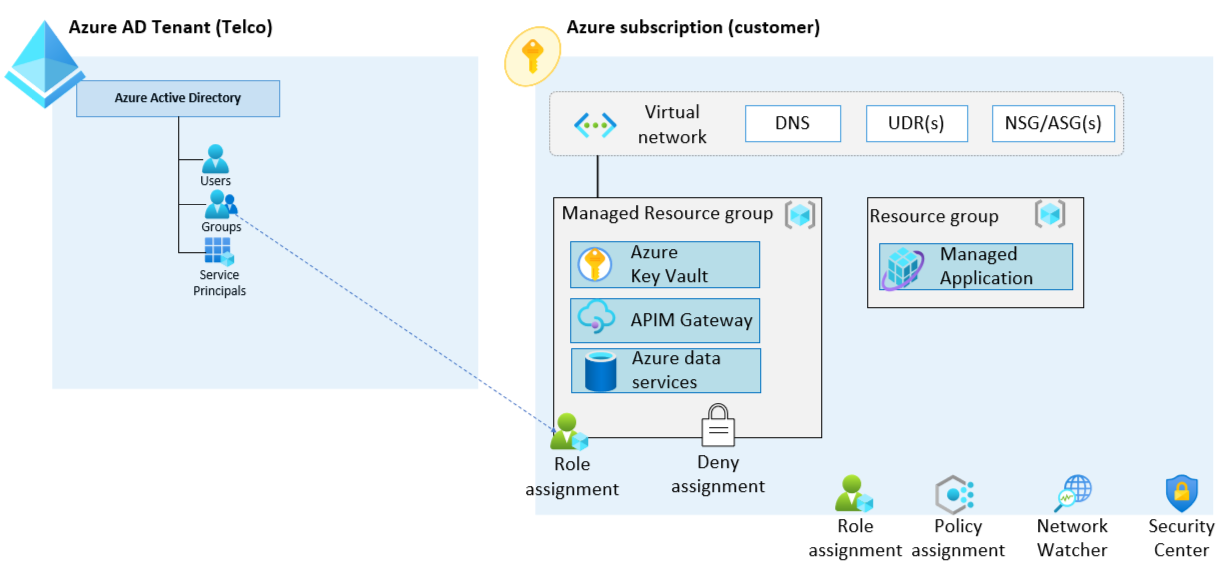
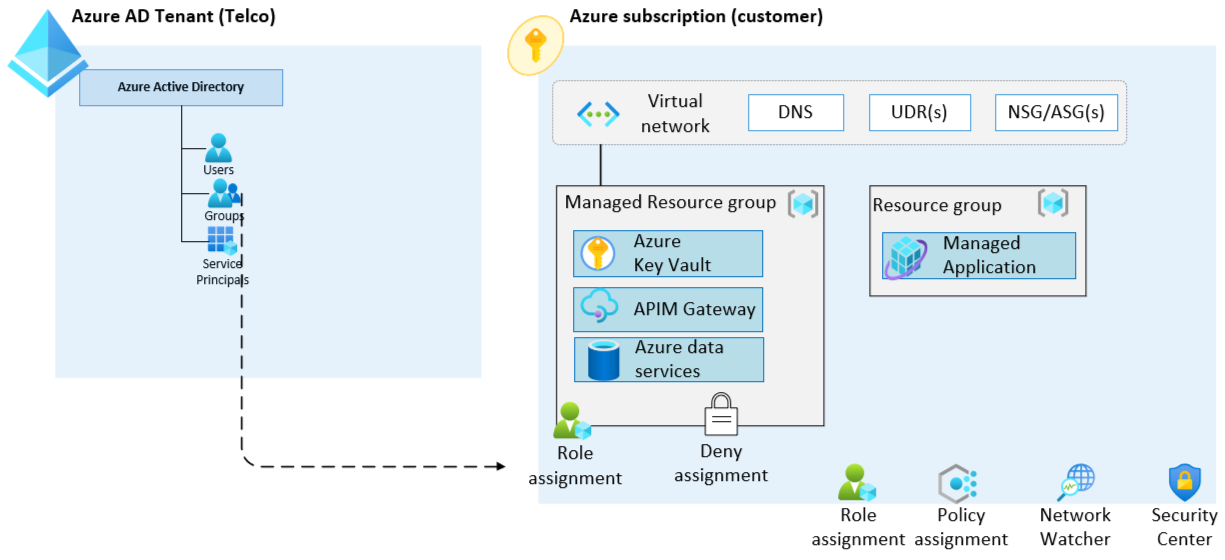
b2b update

Changed region(s): [[0.0, 0.0, 0.9927, 1.0], [0.3722, 0.6375, 0.4033, 0.6679]]

diff --git a/telco/solutions/mgmtOptions/readme.md b/telco/solutions/mgmtOptions/readme.md
@@ -1,8 +1,12 @@
 # Telco Services
 
-Telcos who are running and hosting their Telco industry solutions on the Azure platform are commonly also managing and servicing other customers, whether it is in their own tenant, or directly in the customer's tenants.
+Telcos who are running and hosting their Telco industry solutions on the Azure platform are commonly also managing and servicing other customers, whether it is in their own tenant, or in the customer's tenants.
 
 This article enumerates the different methods a Telco on Azure can use in order to provide managed services or/and managed solutions to their customers, directly in the customer environments.
+
+* [Azure Active Directory B2B](#azure-active-directory-b2b)
+* [Azure Lighthouse](#azure-lighthouse)
+* [Azure Managed Application](#azure-managed-application)
 
 The following table explains the available capabilities, their pros and cons in order to meet the above. Note that all of these capabilities can also be combined and one does not exclude the other.
 
@@ -12,9 +16,34 @@ The following table explains the available capabilities, their pros and cons in 
 | Azure Lighthouse | Enables a cross-tenant RBAC assignment so that service providers can manage the customer scopes that are delegated (subscription or resource groups) directly from within their tenant using a single token.  |Optimized for service providers to perform at-scale operations across multiple Azure tenants. Allows service providers to host and secure their intellectual properties in their own subscriptions. Interoperability across tenants from an Azure control plane perspective. Customer is in charge of the access scope given. | Owner RBAC is not supported, so several high privileged operations cannot be executed by the service provider. Limited to Azure ARM only (no Azure AD, Office 365, or Power Platform manageability). Co-admin scenario by design for the customer and the service provider, which can make it hard to have clear separation of duties.
 | Azure Managed Application | Enables service providers and ISV's to publish their solutions into Azure marketplace offerings, where customer deploys into their subscription and the actual Azure resources are projected back to the service provider tenant (cross tenant RBAC assignment) for them to operate on-behalf-of the customers. | Optimized for ISV's/service providers to perform at-scale operations across multiple Azure tenants. Allow ISV's/service providers to host and secure their intellectual properties in their own subscriptions. Interoperability across tenants from an Azure control plane perspective. Service provider can determine the RBAC they need on the managed resource group themselves. Clear separation of duties as the managed resource group in the customer subscription is locked, preventing the customer to potentially cause service disruption. | Permission for ISV's/services are limited to the managed resourcre group only |
 
+## Azure Active Directory B2B
+
+Azure Active Directory (Azure AD) business-to-business (B2B) collaboration is a feature within External Identities that lets you invite guest users to collaborate with your organization. With B2B collaboration, you can securely share your company's applications and services with guest users from any other organization, while maintaining control over your own corporate data.
+
+The diagram below shows that users originating from the Telco Azure Active Directory are invited and projected into the customer's Azure Active Directory. Once the users are added to the customer directory, they can be assigned any Azure AD, Azure, Power Platform, or Microsoft365 role assignment.
+
+![b2b](./images/b2b.png)
+
+### Design considerations
+
+* Only indivdual users can be invited into an external Azure AD tenant.
+* Developers can use Azure AD B2B APIs to customize the invitation process or write applications like self-service sign-up portals.
+* Guests are using their own identities and credentials, and are managing their own accounts and passwords.
+* Authorization policies can be used to protect your corporate content, such as Conditional Access policies and multi-factor authentication.
+* Administration of guest users can be delegated to application owners.
+* Application owners who need to grant access to Azure must have *Microsoft.Authorization/roleAssignments/write* permission, which is included in the *Owner* and *User Access Administrator* built-in roles.
+* If the guest accounts are subject to multi-factor authentication within their Azure Active Directory, and this is also enabled in the customer's Azure Active Directory, the guest users might have to perform the authentication once in their home organization, and then in the customer organization.
+
+### Design recommendations
+
+* Use Conditional Access policies for the guest users as required, depending on the permission and scope they will be granted access to.
+* Delegate user management to application teams in order to scale and provide the required agility.
+* Integrate Azure AD with Azure Monitor (Azure Log Analytics) for long-term retention and analytics of audit logs and sign-in activities by guest accounts.
+* Perform regular access reviews of guest users, their group membership, access to enterprise applications, and role assignments.
+
 ## Azure Lighthouse
 
-Azure Lighthouse is primarily a capability for enterprises with Azure subscriptions spread across multiple Azure AD tenants, as well as for service providers to manage multiple Azure subscriptions across multiple customer Azure AD tenants. 
+Azure Lighthouse is primarily a capability for enterprises with Azure subscriptions spread across multiple Azure AD tenants, as well as for service providers to manage multiple Azure subscriptions across multiple customer Azure AD tenants.
 
 The following picture depicts how the cross-tenant RBAC authorization works, granting principal Id's from the remote Azure AD tenant permissions directly on a subscription or a resource group in a customer tenant.
 
@@ -35,7 +64,7 @@ For Telco's considering Azure Lighthouse to manage and operate their customers d
 ### Design recommendations
 
 * When using Azure Lighthouse as a Telco managed service provider, ensure you have a good CI/CD approach to maintain and publish the Azure Resource Manager template(s) that are used for customer onboarding.
-* If required by the customer, use Azure AD PIM to provide additional, enterprise security capabilities when accessing customer resources.
+* If required by the customer, use Azure AD PIM enabled in the Teclo's Azure AD tenant to provide additional, enterprise security capabilities when accessing customer resources.
 * Enable a notification workflow to monitor when new customers are either onboarding to the Telco managed service provider, or are revoking access.
 * Use one or more dedicated subscriptions in the Telco tenant to host and run the requisite management services/tools to operate across multiple customer tenants.
 * Ensure you have an Azure AD group present in the Azure Resource Manager template that is mapped to the *Managed Services Registration assignment Delete Role*, so you can opt-out from a customer if it's required.
@@ -55,9 +84,25 @@ For Telco's considering Azure Managed Application as a way to package, distribut
 ### Design considerations
 
 * Managed Application requires Azure Resource Manager template(s) and a User Interface definition, that must be versioned and published to the Azure Marketplace via [Partner Center](https://partner.microsoft.com/dashboard/home).
+* Azure AD Privileged Identity Management can be used on the *customer's* Azure AD tenant where they can approve just-in-time authorization requests by the Telco operators.
 * You can enable any customer subscription to purchase and deploy your Managed Application, or you can enable this per subscription(s) manually.
 * When customer is deploying a Managed Application, they will see two resource groups where the managed resource group cannot be altered by the customer.
 * Due to how the managed resource group is being locked (using deny assignment), only the Telco can access, create, and change the Azure resources within.
 * When publishing a Managed Application, you must provide the users/groups/service principals from your Azure Active Directory who will operate the Managed Application in the customer subscriptions, and map towards built-in role-based access controls in Azure.
 * Managed Applications can connect to your customer relationship management (CRM) system, such as Dynamics 365 Customer Engagement, HTTPS endpoint, Salesforce and more, so you can receive customer contact information when a customer deploys your product.
 * When a customer deletes the Managed Application object, the managed resource group will then also be deleted.
+
+### Design recommendations
+
+* Establish a CI/CD pipeline and process and treat all artifacts of your Managed Application as infrastructure as code.
+* Allow customers to leverage Azure AD Privileged Identity Management in their Azure AD directory to approve/reject just-in-time authorization requests by your Telco operators.
+* Ensure the resource types (Azure services) you have for the application composition can be deployed in the regions that you allow for.
+* Prepare and configure integration with your customer relationship management system so you can track - and provide proactive customer services when your Managed Application is deployed by customers.
+* Allow the customer to provide tags to the resources created during the Managed Application deployment so they can organize, and query resources using Azure Resource Manager.
+* Ensure *Security Reader* built-in role is mapped to your Azure AD Group/user in order to monitor security risks when the customer is using Microsoft Defender for Cloud on the subscription(s)
+* Bring your own storage account when you need encryption using your own keys.
+* Use Azure Virtual Network Service Tags to define network access controls on network security groups or Azure Firewall configured for your Managed Application resources
+
+---
+
+[Back to documentation root](../../../README.md)
